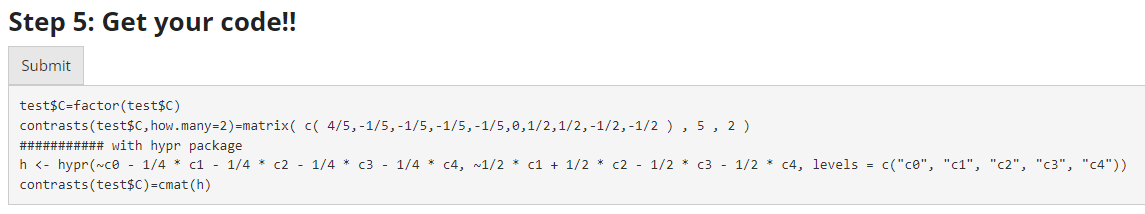
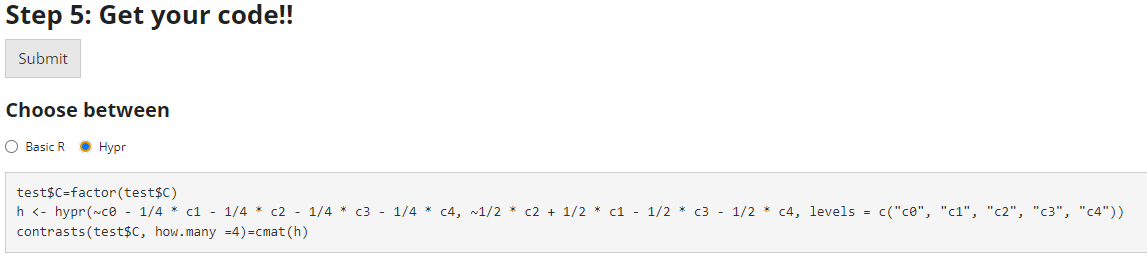
Updates 05 01 2023

diff --git a/inst/tutorial/cont.md b/inst/tutorial/cont.md
@@ -223,7 +223,9 @@ Suppose we want to compare the average won competitions of each team,
 compared to the all the other successive team, taken together. Assuming
 to start with the team A, we want to compare A **vs** B and C taken
 together. Finally we want to compare B **vs** C won competitions.
-Reverse helmert contrasts can be very useful! \# Customized contrasts
+Reverse helmert contrasts can be very useful!
+
+## Customized contrasts
 
 In appRiori, you contrast by using a dran-and-drop menu.
 
@@ -265,6 +267,22 @@ corresponding hypothesis matrix. In our example:
 <img src="www/c1_output.png" alt="drawing" width="1200"/>
 </center>
 
+Examining the new contrast matrix, it is possible to observe that some
+contrasts are labelled with a **T** letter, while other contrasts are
+labelled with a **F** letter.
+
+Why this?
+
+AppRiori is programmed to define two groups of contrasts:
+
+1.  **Target contrasts**, namely the ones we want to test (in our
+    example, two)
+2.  **Filler contrasts**, namely orthogonal and completely random
+    contrasts that are created to complete the n-1 contrasts matrix. In
+    this way the statistical model (that would be defined later) can
+    consume the necessary degrees of freedom (*n* − 1) that should be
+    expected from the model itself (Cohen, 1968).
+
 The code corresponding to this procedure is.
 
 <center>
@@ -282,3 +300,8 @@ For other fancy ways to customize the..stay tuned!!
 In the next panels, two examples are provided, aimed at explaining how
 to (1) plan the contrasts, (2) use them into a regression model and (3)
 interpret the results!
+
+## References
+
+Cohen, J. (1968). Multiple regression as a general data-analytic system.
+Psychological Bulletin, 70 (6p1), 426.
